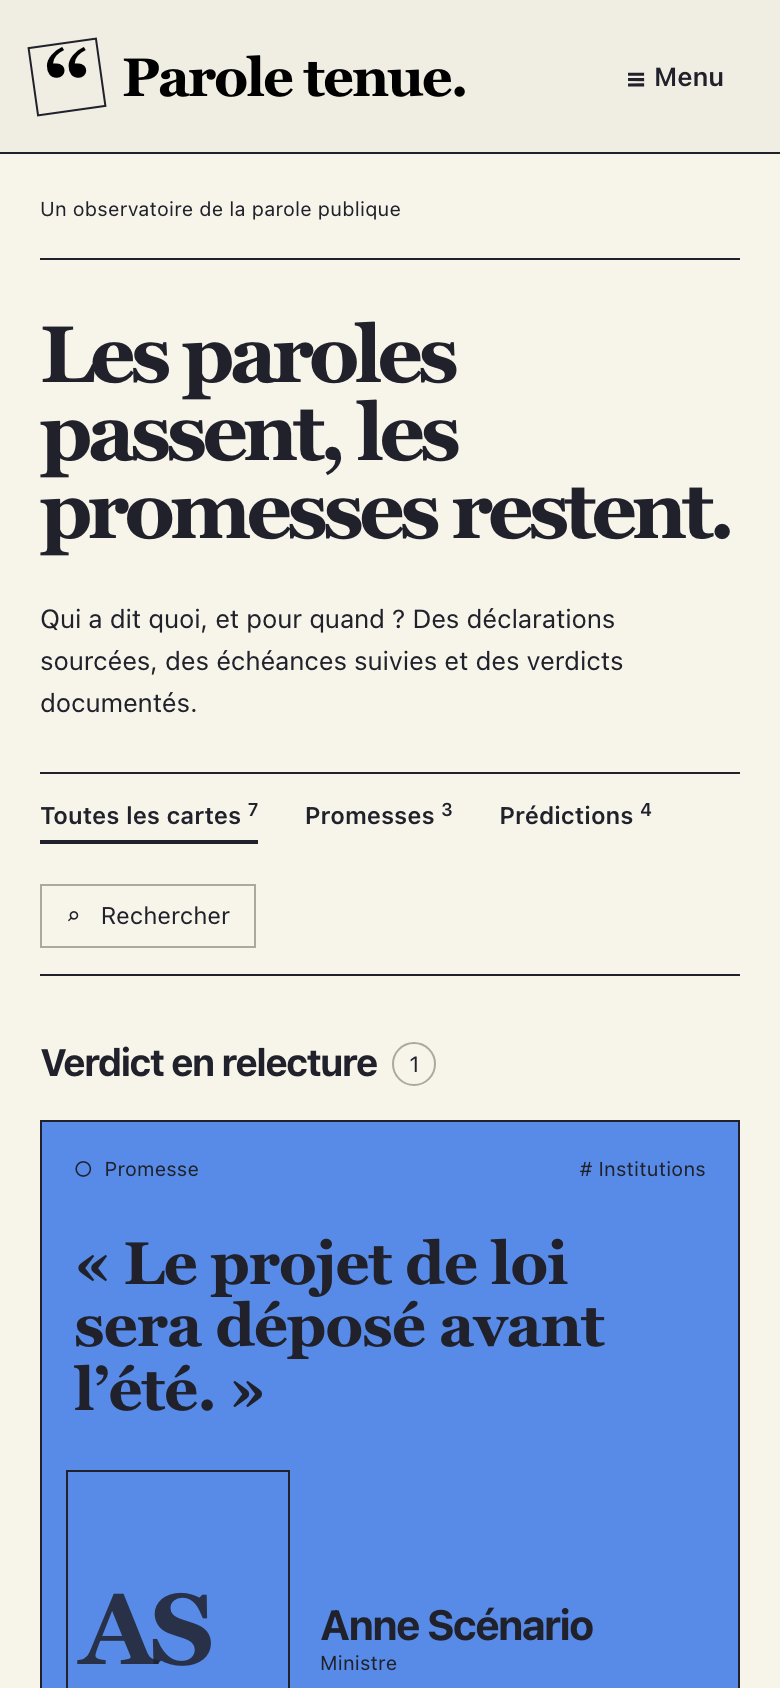
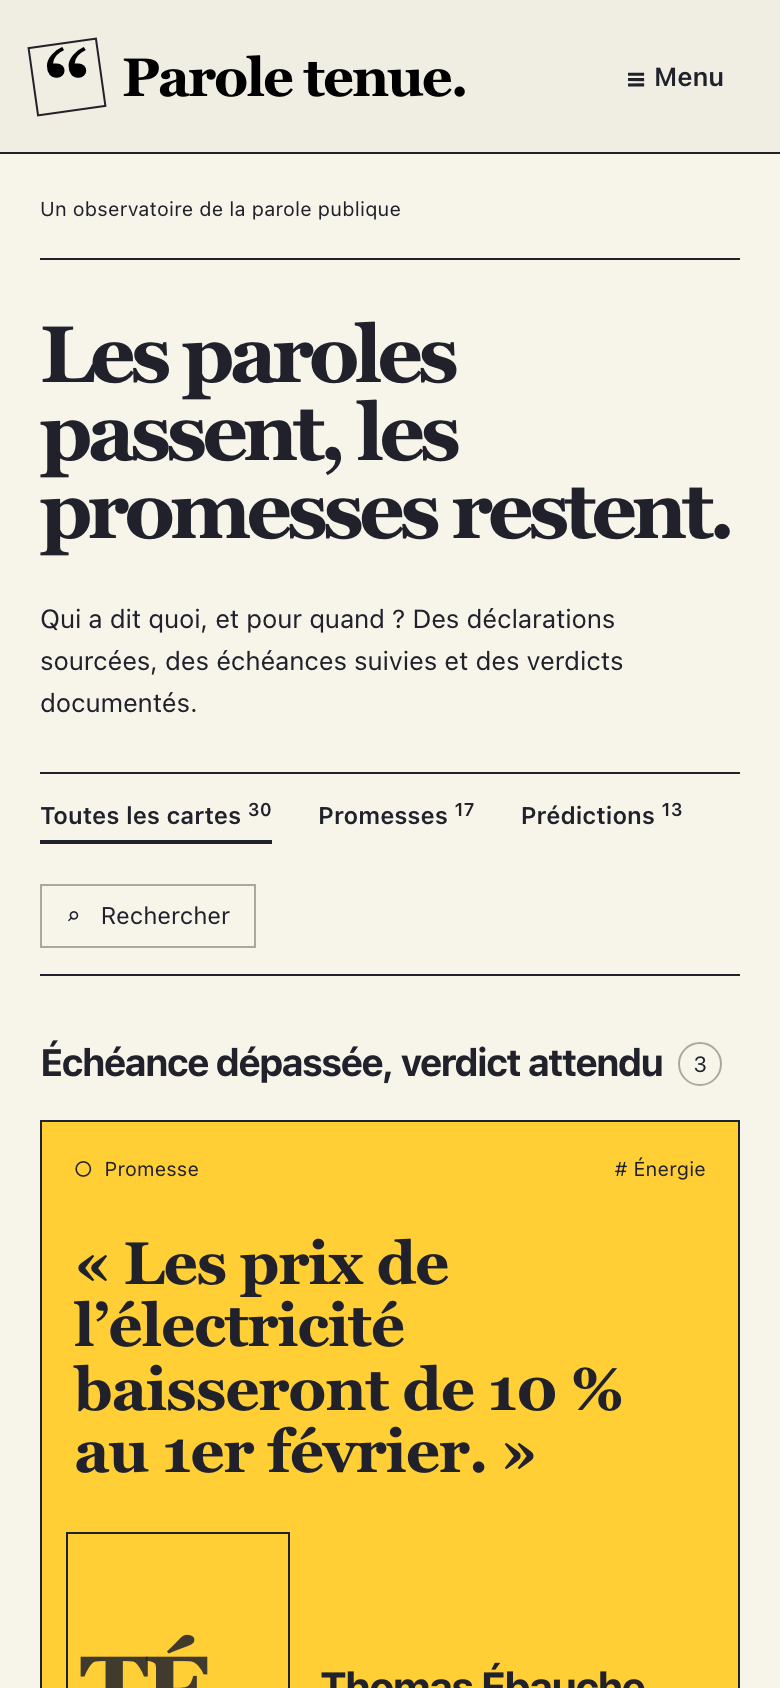
Données de démonstration étoffées
21 personnalités fictives avec leurs affiliations successives, des
thèmes de démonstration et 35 cartes couvrant chaque statut et chaque
valeur de verdict, dont des échéances dépassées sans verdict ; dates
relatives au chargement. Captures du README régénérées.

diff --git a/database/seeders/DemoSeeder.php b/database/seeders/DemoSeeder.php
@@ -40,6 +40,7 @@ class DemoSeeder extends Seeder
         $this->seedUsers();
         $this->seedPublicFigures();
         $this->seedCards();
+        $this->seedCatalog();
     }
 
     private function seedUsers(): void
@@ -49,6 +50,9 @@ class DemoSeeder extends Seeder
             's.leroy' => Role::Moderator,
             'm.durand' => Role::Member,
             'j.martin' => Role::Member,
+            'a.moreau' => Role::Moderator,
+            'c.bernard' => Role::Member,
+            'l.petit' => Role::Member,
         ] as $username => $role) {
             $this->users[$username] = User::factory()->create([
                 'username' => $username,
@@ -138,6 +142,153 @@ class DemoSeeder extends Seeder
             'email' => 'lecteur@example.test',
             'reason' => 'Le lien vers la source du verdict ne fonctionne plus.',
             'status' => ReportStatus::Open,
+        ]);
+    }
+
+    /**
+     * Catalogue étoffé : personnalités, thèmes et cartes fictifs couvrant tous les états et tous les verdicts.
+     * Les échéances sont relatives à la date du chargement, pour que la démonstration ne vieillisse pas.
+     */
+    private function seedCatalog(): void
+    {
+        // Thèmes propres à la démonstration (le vocabulaire de production reste dans ThemeSeeder).
+        foreach (['Fiscalité', 'Vie publique', 'Services publics', 'Logement', 'Transports', 'Retraites', 'Énergie', 'International'] as $name) {
+            Theme::firstOrCreate(['slug' => Str::slug($name)], ['name' => $name]);
+        }
+
+        foreach ([
+            ['Bruno Brouillon', PublicFigureCategory::Politician, 'Maire d’une grande ville', [['Parti F', 'Maire', '-6 years', null]]],
+            ['Sophie Maquette', PublicFigureCategory::Politician, 'Sénatrice', [['Parti A', 'Sénatrice', '-5 years', null]]],
+            ['Karim Parabole', PublicFigureCategory::Columnist, 'Éditorialiste à la télévision', [['Télé G', 'Éditorialiste', '-8 years', null]]],
+            ['Inès Esquisse', PublicFigureCategory::Economist, 'Économiste, professeure d’université', [['Institut D', 'Chercheuse associée', '-10 years', null]]],
+            ['Thomas Ébauche', PublicFigureCategory::Politician, 'Ministre de l’Économie', [['Parti B', 'Député', '-9 years', '-2 years'], ['Gouvernement C', 'Ministre de l’Économie', '-2 years', null]]],
+            ['Nadia Synopsis', PublicFigureCategory::Journalist, 'Journaliste politique', [['Hebdo H', 'Rédactrice en chef', '-4 years', null]]],
+            ['Louis Prototype', PublicFigureCategory::Politician, 'Candidat à l’élection présidentielle', [['Parti G', 'Candidat', '-1 year', null]]],
+            ['Émilie Variante', PublicFigureCategory::Politician, 'Présidente de région', [['Parti B', 'Présidente de région', '-5 years', null]]],
+            ['Victor Postulat', PublicFigureCategory::Economist, 'Économiste de banque', [['Banque K', 'Chef économiste', '-7 years', null]]],
+            ['Rose Hypallage', PublicFigureCategory::Columnist, 'Chroniqueuse radio', [['Radio E', 'Chroniqueuse', '-3 years', null]]],
+            ['Samuel Prologue', PublicFigureCategory::Politician, 'Député', [['Parti A', 'Député', '-4 years', null]]],
+            ['Agathe Corollaire', PublicFigureCategory::Journalist, 'Présentatrice de la matinale', [['Télé G', 'Présentatrice', '-6 years', null]]],
+            ['Yves Épilogue', PublicFigureCategory::Politician, 'Ancien Premier ministre', [['Gouvernement C', 'Premier ministre', '-7 years', '-4 years'], ['Parti B', 'Conseiller politique', '-4 years', null]]],
+            ['Margaux Tangente', PublicFigureCategory::Other, 'Secrétaire générale d’un syndicat', [['Syndicat L', 'Secrétaire générale', '-3 years', null]]],
+        ] as [$name, $category, $description, $affiliations]) {
+            $figure = PublicFigure::create([
+                'name' => $name,
+                'slug' => Str::slug($name),
+                'category' => $category,
+                'description' => $description,
+            ]);
+
+            foreach ($affiliations as [$organization, $role, $start, $end]) {
+                $figure->affiliations()->create([
+                    'organization' => $organization,
+                    'role' => $role,
+                    'started_on' => now()->modify($start)->startOfYear()->toDateString(),
+                    'ended_on' => $end ? now()->modify($end)->endOfYear()->toDateString() : null,
+                ]);
+            }
+
+            $this->figures[$name] = $figure;
+        }
+
+        $members = [$this->users['m.durand'], $this->users['j.martin'], $this->users['c.bernard'], $this->users['l.petit']];
+        $moderators = [$this->users['s.leroy'], $this->users['a.moreau']];
+        $at = fn (string $relative) => now()->modify($relative)->toDateString();
+
+        // [personnalité, type, citation, déclarée (relatif), échéance (relatif), thèmes, statut, verdict ?, contexte, source]
+        $cards = [
+            // Prochaines échéances
+            ['Louis Prototype', CardType::Promise, '« Je baisserai l’impôt sur le revenu des classes moyennes de 10 % sur le quinquennat. »', '-1 month', '+5 years', ['Présidentielle 2027', 'Fiscalité'], CardStatus::Published, null, 'Meeting de lancement de campagne, devant ses soutiens.', [SourceKind::Video, 'Télé G', '41:05']],
+            ['Sophie Maquette', CardType::Promise, '« Aucun bureau de poste ne fermera dans les communes rurales d’ici trois ans. »', '-2 months', '+34 months', ['Services publics'], CardStatus::Published, null, 'Questions au gouvernement, en séance publique.', [SourceKind::OfficialJournal, 'Compte rendu des débats', null]],
+            ['Karim Parabole', CardType::Prediction, '« La participation au premier tour sera inférieure à 70 %. »', '-3 weeks', '+6 months', ['Présidentielle 2027', 'Vie publique'], CardStatus::Published, null, 'Débat de fin d’émission sur l’abstention.', [SourceKind::Video, 'Télé G', '52:10']],
+            ['Inès Esquisse', CardType::Prediction, '« Les prix de l’immobilier ancien baisseront encore de 5 % l’an prochain. »', '-5 weeks', '+14 months', ['Logement', 'Économie'], CardStatus::Published, null, 'Tribune publiée dans un quotidien économique.', [SourceKind::Article, 'Journal B', null]],
+            ['Émilie Variante', CardType::Promise, '« Les cars régionaux seront gratuits pour les moins de 26 ans à la rentrée prochaine. »', '-2 months', '+11 months', ['Transports'], CardStatus::Published, null, 'Vote du budget régional.', [SourceKind::Programme, 'Région', null]],
+            ['Bruno Brouillon', CardType::Promise, '« Nous planterons 20 000 arbres dans la ville avant la fin du mandat. »', '-7 months', '+5 years', ['Environnement'], CardStatus::Published, null, 'Conseil municipal consacré au plan climat.', [SourceKind::Video, 'Ville', '1:12:40']],
+            ['Victor Postulat', CardType::Prediction, '« La croissance dépassera 1,5 % l’an prochain. »', '-6 weeks', '+15 months', ['Économie'], CardStatus::Published, null, 'Présentation des prévisions trimestrielles de la banque.', [SourceKind::PublicData, 'Banque K', null]],
+            ['Samuel Prologue', CardType::Promise, '« Je déposerai une proposition de loi sur le non-cumul des indemnités avant la fin de l’année. »', '-1 month', '+2 months', ['Vie publique', 'Institutions'], CardStatus::Published, null, 'Entretien à la matinale.', [SourceKind::Audio, 'Radio E', '08:47']],
+            ['Margaux Tangente', CardType::Prediction, '« La dernière réforme des retraites sera abrogée avant deux ans. »', '-3 months', '+21 months', ['Retraites'], CardStatus::Published, null, 'Conférence de presse à l’issue d’une journée de mobilisation.', [SourceKind::Video, 'Hebdo H', '06:30']],
+            ['Thomas Ébauche', CardType::Promise, '« Le déficit public repassera sous 3 % du PIB d’ici trois ans. »', '-4 months', '+3 years', ['Économie', 'Fiscalité'], CardStatus::Published, null, 'Présentation du projet de loi de finances.', [SourceKind::OfficialJournal, 'Assemblée', null]],
+
+            // Échéance dépassée, verdict attendu
+            ['Thomas Ébauche', CardType::Promise, '« Les prix de l’électricité baisseront de 10 % au 1er février. »', '-14 months', '-8 months', ['Énergie'], CardStatus::Published, null, 'Annonce au journal du soir.', [SourceKind::Video, 'Télé G', '12:02']],
+            ['Rose Hypallage', CardType::Prediction, '« Le gouvernement ne passera pas l’été. »', '-9 months', '-3 months', ['Vie publique'], CardStatus::Published, null, 'Chronique politique du vendredi.', [SourceKind::Audio, 'Radio E', '03:15']],
+            ['Émilie Variante', CardType::Promise, '« Le nouveau lycée ouvrira ses portes à la rentrée. »', '-18 months', '-1 month', ['Éducation'], CardStatus::Published, null, 'Pose de la première pierre.', [SourceKind::Article, 'Journal B', null]],
+
+            // Verdict en relecture
+            ['Bruno Brouillon', CardType::Promise, '« La piscine municipale rouvrira avant l’été. »', '-13 months', '-4 months', ['Services publics'], CardStatus::VerdictProposed,
+                [VerdictValue::Kept, null, 'La piscine a rouvert au public trois semaines avant la date annoncée, selon l’arrêté municipal et la presse locale.'], 'Réunion publique de quartier.', [SourceKind::Video, 'Ville', '27:45']],
+
+            // Tranchées : une carte par valeur de verdict
+            ['Yves Épilogue', CardType::Promise, '« Nous créerons 2 000 places de prison supplémentaires d’ici la fin du mandat. »', '-6 years', '-4 years', ['Sécurité'], CardStatus::Closed,
+                [VerdictValue::Kept, '-40 months', 'Le bilan officiel publié à la fin du mandat recense 2 150 places nettes créées.'], 'Déclaration de politique générale.', [SourceKind::OfficialJournal, 'Assemblée', null]],
+            ['Margaux Tangente', CardType::Promise, '« Nous obtiendrons une hausse de 3 % du point d’indice cette année. »', '-20 months', '-9 months', ['Services publics'], CardStatus::Closed,
+                [VerdictValue::PartiallyKept, '-7 months', 'Le point d’indice a été revalorisé de 1,5 % : la hausse obtenue est réelle mais deux fois moindre que l’objectif annoncé.'], 'Ouverture des négociations salariales.', [SourceKind::Video, 'Hebdo H', '02:10']],
+            ['Sophie Maquette', CardType::Promise, '« Je ferai voter la semaine de quatre jours dans la fonction publique territoriale. »', '-30 months', '-12 months', ['Services publics'], CardStatus::Closed,
+                [VerdictValue::Compromised, '-10 months', 'Le texte adopté autorise la semaine de quatre jours à titre expérimental et sur la base du volontariat, loin de la généralisation promise.'], 'Entretien dans un quotidien régional.', [SourceKind::Article, 'Journal B', null]],
+            ['Samuel Prologue', CardType::Promise, '« Je présenterai un plan vélo national avant la fin de l’année. »', '-24 months', '-14 months', ['Transports'], CardStatus::Closed,
+                [VerdictValue::Abandoned, '-11 months', 'Aucun plan n’a été présenté ; le député a déclaré en commission que le projet était « mis de côté ».'], 'Congrès d’une fédération de cyclistes.', [SourceKind::Video, 'Télé G', '19:30']],
+            ['Louis Prototype', CardType::Promise, '« Si je suis élu maire, je gèlerai les loyers des logements municipaux. »', '-26 months', '-18 months', ['Logement'], CardStatus::Closed,
+                [VerdictValue::Moot, '-17 months', 'Le candidat n’a pas été élu : la promesse est devenue sans objet.'], 'Débat de second tour des municipales.', [SourceKind::Video, 'Télé G', '33:12']],
+            ['Victor Postulat', CardType::Prediction, '« Le chômage dépassera 9 % à la fin de l’année. »', '-22 months', '-10 months', ['Emploi'], CardStatus::Closed,
+                [VerdictValue::Wrong, '-8 months', 'Le taux de chômage publié pour le dernier trimestre s’établit à 7,3 %, bien en dessous du seuil annoncé.'], 'Note de conjoncture.', [SourceKind::PublicData, 'Banque K', null]],
+            ['Inès Esquisse', CardType::Prediction, '« Les taux baisseront deux fois cette année et l’immobilier repartira. »', '-28 months', '-16 months', ['Économie', 'Logement'], CardStatus::Closed,
+                [VerdictValue::PartiallyCorrect, '-14 months', 'Les taux directeurs ont bien baissé deux fois, mais le nombre de ventes de logements anciens est resté stable sur l’année.'], 'Colloque annuel de l’Institut.', [SourceKind::Video, 'Institut D', '1:05:20']],
+            ['Karim Parabole', CardType::Prediction, '« Ce débat télévisé changera l’issue de l’élection. »', '-30 months', '-28 months', ['Vie publique'], CardStatus::Closed,
+                [VerdictValue::Unverifiable, '-26 months', 'Aucune donnée ne permet d’isoler l’effet d’un débat sur le résultat : la prédiction ne peut être ni confirmée ni infirmée.'], 'Éditorial du soir.', [SourceKind::Video, 'Télé G', '04:50']],
+            ['Agathe Corollaire', CardType::Prediction, '« Le texte sera adopté à moins de dix voix d’écart. »', '-15 months', '-13 months', ['Institutions'], CardStatus::Closed,
+                [VerdictValue::Correct, '-12 months', 'Le scrutin public a donné 289 voix pour et 282 contre : un écart de sept voix.'], 'Matinale, la veille du vote.', [SourceKind::Video, 'Télé G', '07:58']],
+
+            // En modération et refusée
+            ['Nadia Synopsis', CardType::Prediction, '« Les primaires seront annulées faute de candidats sérieux. »', '-1 week', '+5 months', ['Présidentielle 2027'], CardStatus::InModeration, null, 'Lettre politique hebdomadaire.', [SourceKind::Article, 'Hebdo H', null]],
+            ['Rose Hypallage', CardType::Prediction, '« Le ticket de métro dépassera 3 euros l’an prochain. »', '-4 days', '+14 months', ['Transports'], CardStatus::InModeration, null, 'Chronique consacrée aux transports.', [SourceKind::Audio, 'Radio E', '02:40']],
+            ['Karim Parabole', CardType::Prediction, '« Tout le monde sait que ce ministre finira par mentir. »', '-2 weeks', '+1 year', ['Vie publique'], CardStatus::Rejected, null, 'Éditorial.', [SourceKind::Video, 'Télé G', '01:20']],
+        ];
+
+        foreach ($cards as $index => [$figure, $type, $quote, $statedOn, $deadline, $themes, $status, $verdict, $context, [$kind, $outlet, $timecode]]) {
+            $author = $members[$index % count($members)];
+            $moderator = $moderators[$index % count($moderators)];
+            $overrides = ['context' => $context, 'author_id' => $author->id];
+
+            if ($status === CardStatus::Rejected) {
+                $overrides['rejection_reason'] = 'Ce n’est ni une promesse ni une prédiction vérifiable : on juge des faits, jamais des intentions.';
+            }
+
+            $card = $this->card($figure, $type, $quote, $at($statedOn), $at($deadline), $themes, $status, $overrides, $kind, $outlet, $timecode);
+
+            if ($status->isPublic()) {
+                $this->log($card, $author, ActivityAction::Proposed, $at($statedOn));
+                $this->log($card, $moderator, ActivityAction::Approved, now()->modify($statedOn)->addDays(3)->toDateString(), ['status' => 'in_moderation'], ['status' => 'published']);
+            }
+
+            if ($verdict !== null) {
+                [$value, $decidedAt, $justification] = $verdict;
+                $proposer = $members[($index + 1) % count($members)];
+                $this->verdict(
+                    $card, $value, $proposer,
+                    $decidedAt === null ? VerdictStatus::Proposed : VerdictStatus::Approved,
+                    $decidedAt === null ? null : $moderator,
+                    $decidedAt === null ? null : $at($decidedAt),
+                    $justification,
+                );
+            }
+        }
+
+        // Un signalement ouvert et un signalement traité
+        $electricity = Card::where('quote', 'like', '%prix de l’électricité%')->sole();
+        Report::factory()->create([
+            'card_id' => $electricity->id,
+            'email' => 'lectrice@example.test',
+            'reason' => 'La date de l’annonce semble être le 12 et non le 14.',
+            'status' => ReportStatus::Open,
+        ]);
+        Report::factory()->create([
+            'card_id' => Card::where('quote', 'like', '%moins de dix voix%')->sole()->id,
+            'user_id' => $this->users['l.petit']->id,
+            'email' => null,
+            'reason' => 'Le lien vers le compte rendu du scrutin a changé.',
+            'status' => ReportStatus::Resolved,
+            'handled_by' => $this->users['a.moreau']->id,
+            'handled_at' => now()->subMonths(2),
         ]);
     }
 

diff --git a/tests/Feature/Database/ModelsTest.php b/tests/Feature/Database/ModelsTest.php
@@ -1,6 +1,7 @@
 <?php
 
 use App\Enums\CardStatus;
+use App\Enums\VerdictValue;
 use App\Models\ActivityLog;
 use App\Models\Affiliation;
 use App\Models\Card;
@@ -66,12 +67,15 @@ it('ne laisse pas un utilisateur choisir son rôle', function () {
     expect((new User(['role' => 'admin']))->isAdmin())->toBeFalse();
 });
 
-it('charge le jeu de démonstration', function () {
+it('charge un jeu de démonstration qui couvre chaque statut et chaque verdict', function () {
     $this->seed(DatabaseSeeder::class);
 
-    expect(Card::count())->toBe(9)
-        ->and(Card::visible()->count())->toBe(7)
-        ->and(Card::where('status', CardStatus::Closed)->has('approvedVerdict')->count())->toBe(3);
+    expect(Card::distinct()->pluck('status')->map->value->sort()->values()->all())
+        ->toBe(collect(CardStatus::cases())->map->value->sort()->values()->all())
+        ->and(Verdict::where('status', 'approved')->distinct()->pluck('value')->map->value->sort()->values()->all())
+        ->toBe(collect(VerdictValue::cases())->map->value->sort()->values()->all())
+        ->and(Card::where('status', CardStatus::Closed)->doesntHave('approvedVerdict')->count())->toBe(0)
+        ->and(Card::awaitingVerdict()->count())->toBeGreaterThan(0);
 });
 
 it('résume les changements du journal avec les libellés français', function () {
